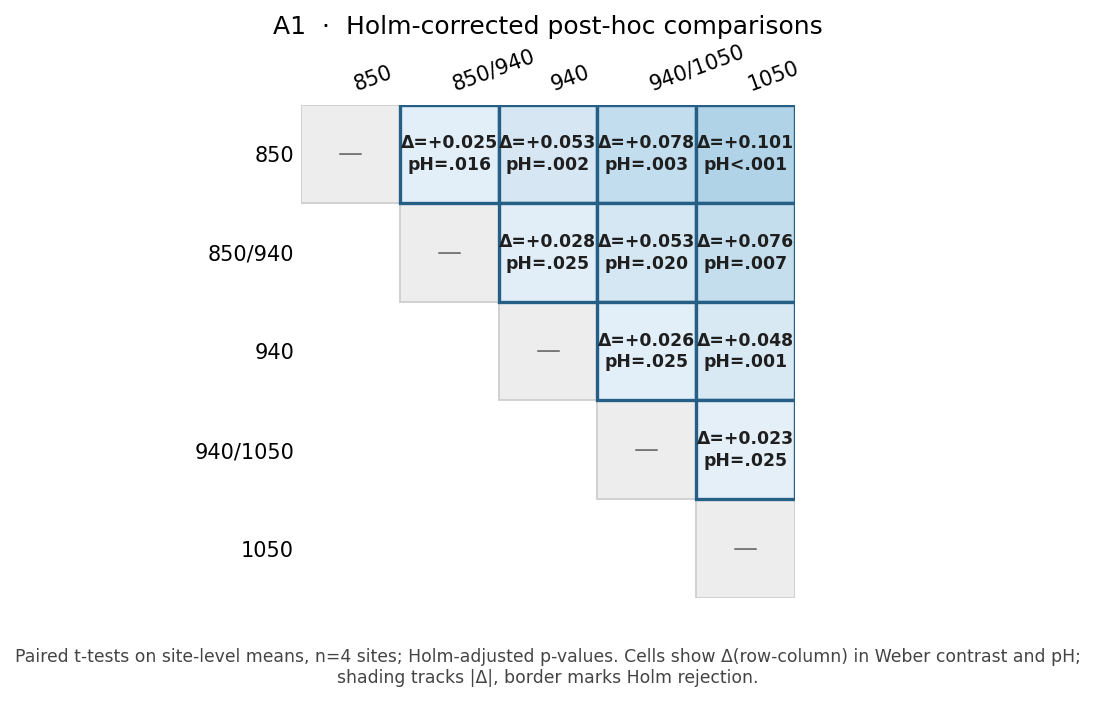
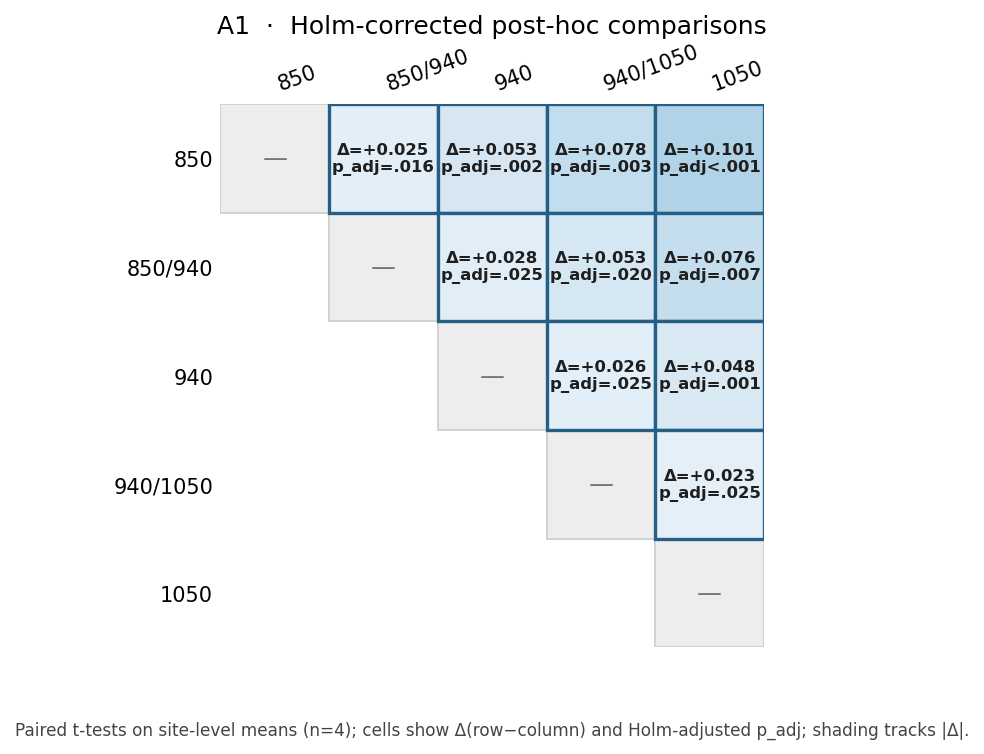
Refactor post-hoc matrix rendering for improved layout and update p-value labels to use consistent terminology

diff --git a/plots/a1.py b/plots/a1.py
@@ -37,6 +37,8 @@ _POSTHOC_MAGNITUDE_CMAP = mcolors.LinearSegmentedColormap.from_list(
     "a1_posthoc_magnitude",
     ["#f7fbff", "#d8e8f4", "#9ecae1"],
 )
+_POSTHOC_FIGSIZE = (7.6, 5.4)
+_POSTHOC_CELL_FONT_SIZE = 7.9
 
 
 def _as_float(value: object, label: str) -> float:
@@ -64,13 +66,13 @@ def _fmt_trimmed(x: float, digits: int = 3) -> str:
 
 def _fmt_p_holm(p: object) -> str:
     if p is None:
-        return "pH=n/a"
+        return "p_adj=n/a"
     p_float = _as_float(p, "Holm-adjusted p-value")
     if not np.isfinite(p_float):
-        return "pH=n/a"
+        return "p_adj=n/a"
     if p_float < 0.001:
-        return "pH<.001"
-    return f"pH={_fmt_trimmed(p_float)}"
+        return "p_adj<.001"
+    return f"p_adj={_fmt_trimmed(p_float)}"
 
 
 def _fmt_delta(value: float, label: str) -> str:
@@ -143,15 +145,14 @@ def _posthoc_caption(a1: dict, delta_label: str) -> str:
     n_sites = a1["n_sites"]
     if a1["path"] == "rm_anova":
         path_label = "Paired t-tests"
-        metric = "in Weber contrast"
+        delta_context = ""
     else:
         path_label = "Wilcoxon signed-rank tests"
-        metric = "from official post-hoc rows"
+        delta_context = " from official post-hoc rows"
     return (
-        f"{path_label} on site-level means, n={n_sites} sites; "
-        f"Holm-adjusted p-values. Cells show {delta_label}(row-column) "
-        f"{metric} and pH; shading tracks |{delta_label}|, "
-        "border marks Holm rejection."
+        f"{path_label} on site-level means (n={n_sites}); "
+        f"cells show {delta_label}(row−column){delta_context} and Holm-adjusted p_adj; "
+        f"shading tracks |{delta_label}|."
     )
 
 
@@ -351,7 +352,7 @@ def render_a1_posthoc_matrix(a1: dict, out_path: Path) -> None:
     n = len(CONDITION_ORDER)
     max_abs_delta = max(abs(row["delta"]) for row in plot_rows) if plot_rows else 0.0
 
-    fig, ax = plt.subplots(figsize=FIGSIZE)
+    fig, ax = plt.subplots(figsize=_POSTHOC_FIGSIZE)
 
     for i in range(n):
         rect = Rectangle(
@@ -387,8 +388,8 @@ def render_a1_posthoc_matrix(a1: dict, out_path: Path) -> None:
             f"{_fmt_p_holm(row['p_holm'])}",
             ha="center", va="center",
             color=_posthoc_text_color(fill),
-            fontsize=8.3,
-            linespacing=1.25,
+            fontsize=_POSTHOC_CELL_FONT_SIZE,
+            linespacing=1.18,
             fontweight="bold" if row["reject"] else "normal",
         )
 
@@ -417,7 +418,7 @@ def render_a1_posthoc_matrix(a1: dict, out_path: Path) -> None:
     fig.text(
         0.5, 0.04,
         _posthoc_caption(a1, delta_label),
-        ha="center", fontsize=8.3, color="#444444", wrap=True,
+        ha="center", fontsize=8.1, color="#444444", wrap=True,
     )
 
     fig.tight_layout(rect=(0, 0.12, 1, 0.96))
